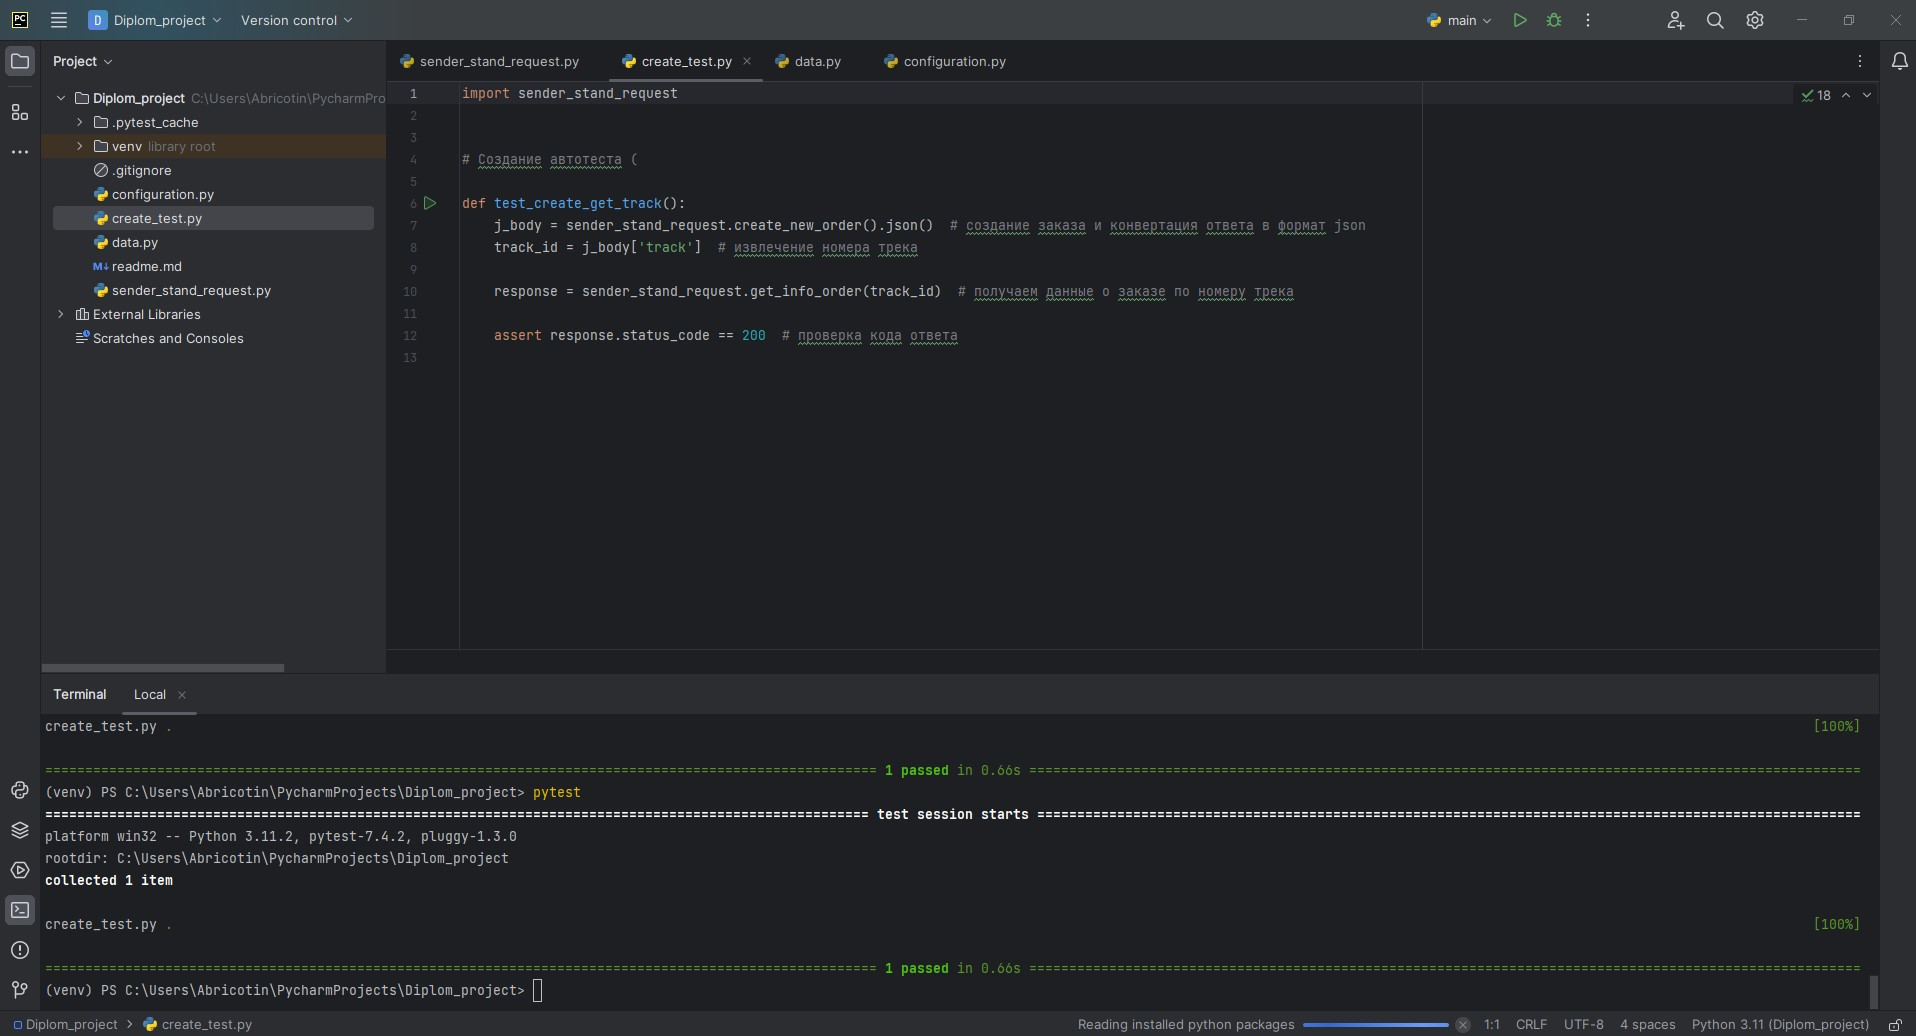
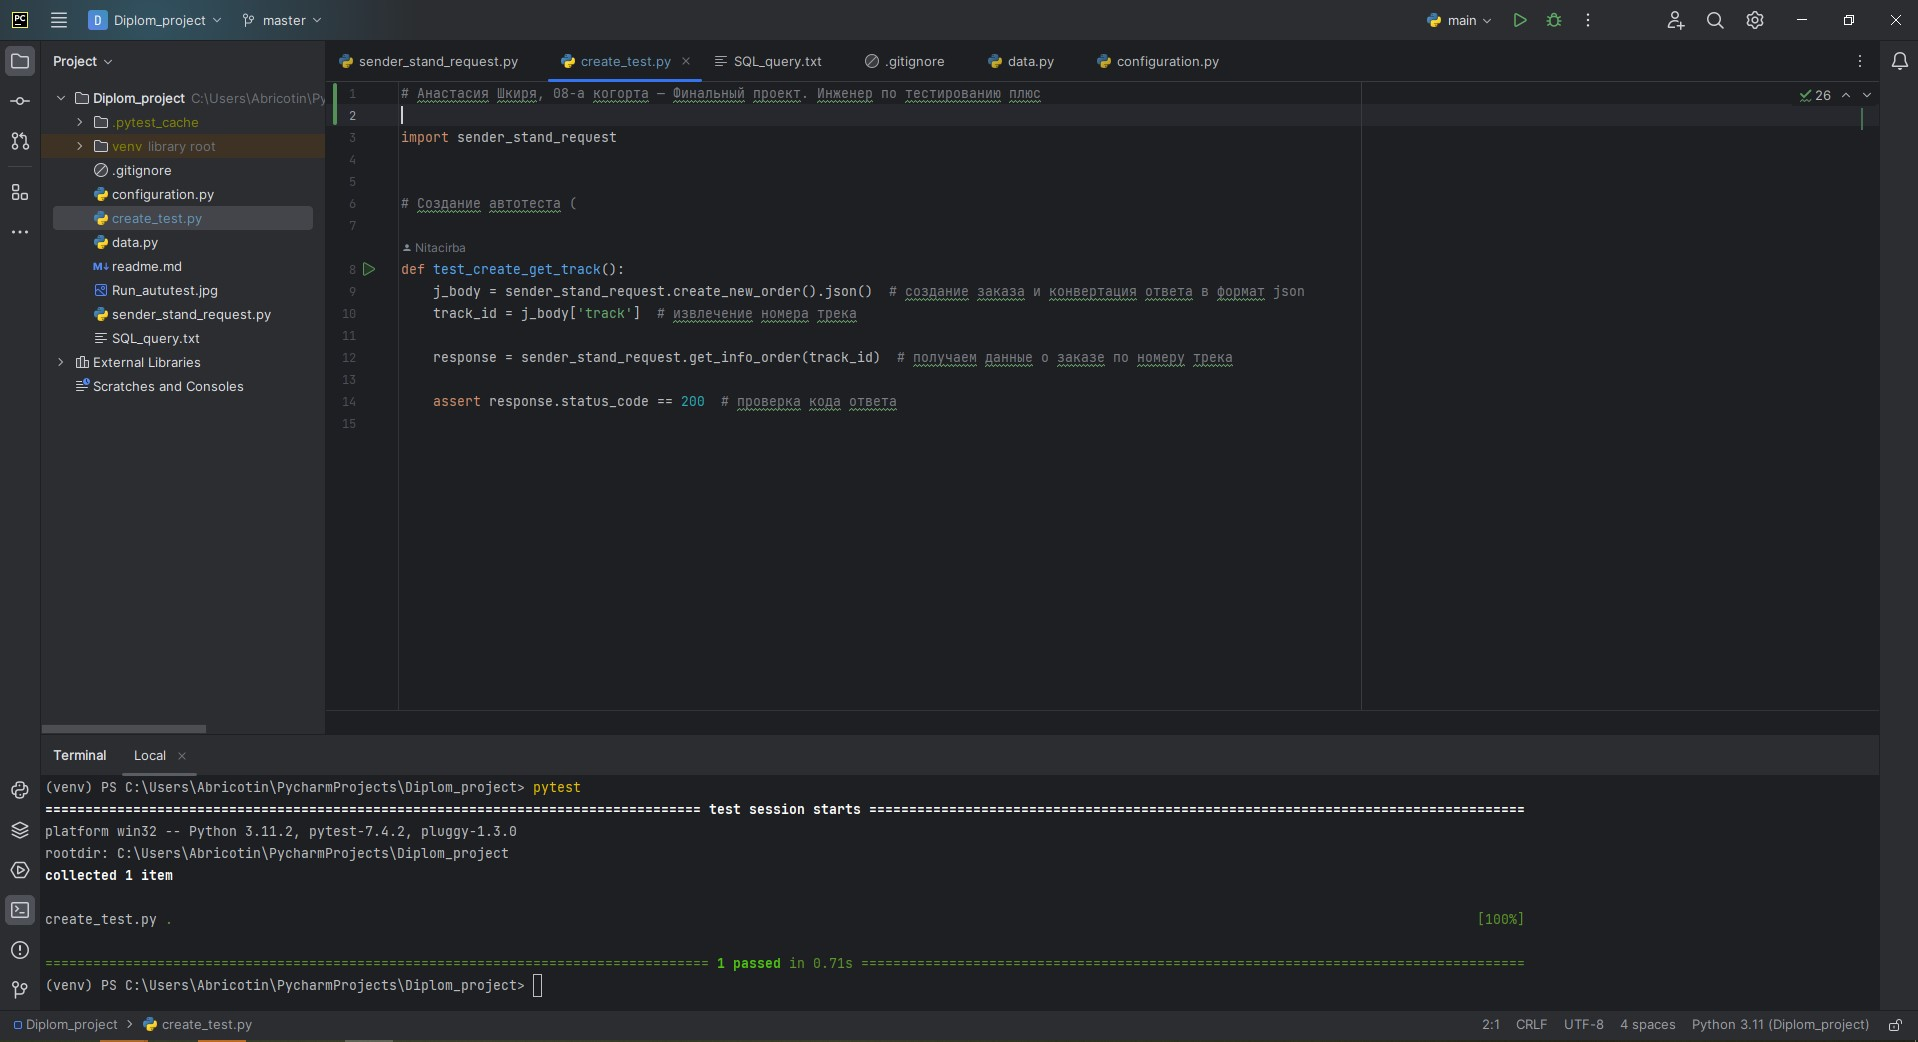
init2

diff --git a/create_test.py b/create_test.py
@@ -1,3 +1,5 @@
+# Анастасия Шкиря, 08-а когорта — Финальный проект. Инженер по тестированию плюс
+
 import sender_stand_request
 
 
